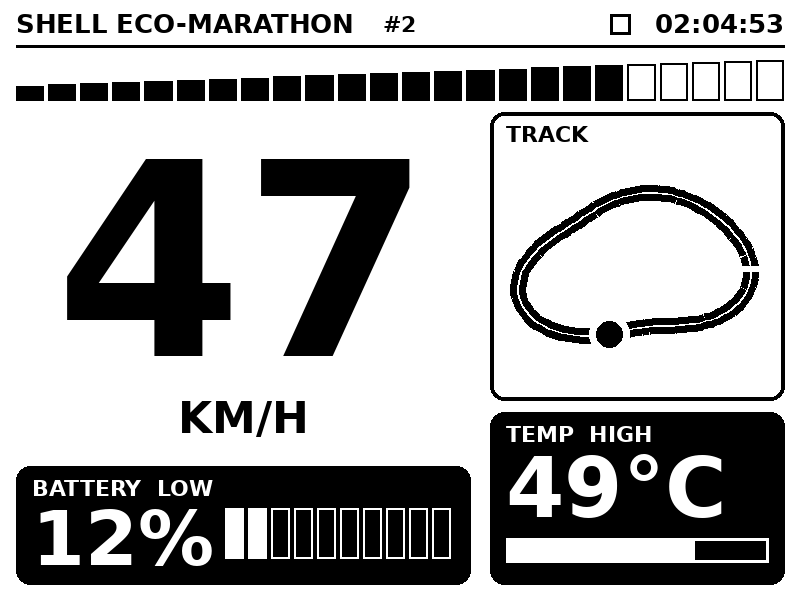
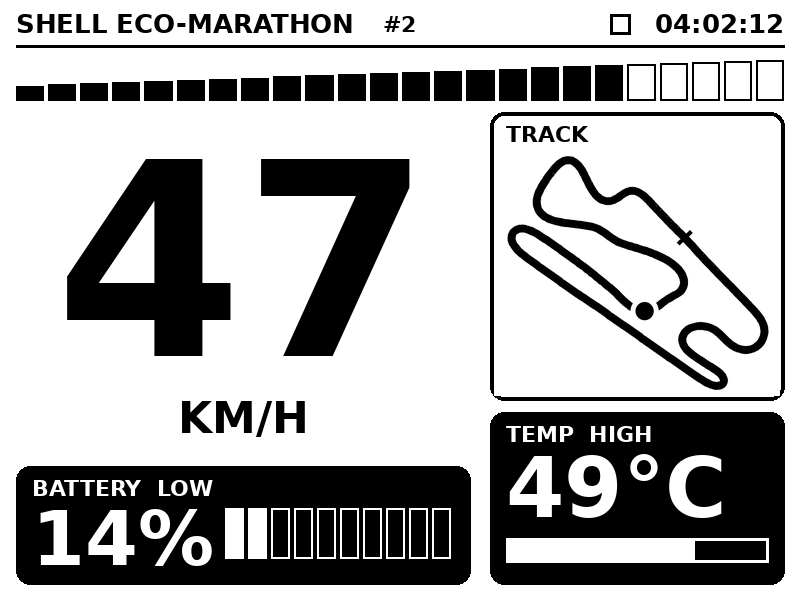
silesia ring track added

diff --git a/server.py b/server.py
@@ -4,8 +4,11 @@ Run:  python server.py
 The Kindle downloads  http://<laptop-ip>:8000/dash.png  (600x800, 8-bit grayscale).
 The design is drawn in landscape (800x600) and rotated for the Kindle's portrait screen.
 """
+import bisect
 import io
+import json
 import math
+import os
 import random
 import time
 from functools import lru_cache
@@ -53,9 +56,67 @@ def card(d, box, inverted=False):
     return 255 if inverted else 0
 
 
-def track_point(u, cx=637, cy=268, rx=100, ry=78):
-    r = 1 + 0.16 * math.cos(2 * u + 0.6) + 0.09 * math.sin(3 * u)
-    return cx + rx * r * math.cos(u), cy + ry * r * math.sin(u)
+MAP_BOX = (510, 160, 766, 386)   # area inside the map card where the track is drawn
+MAP_REGION = (494, 148, 780, 396)   # part of the card redrawn with smoothing (inside the card border)
+SS = 4                              # supersampling: draw 4x bigger, then shrink = smooth edges
+SMOOTH = 3.0                        # smoothing strength in points (0 = off)
+TRACK_FILE = os.path.join(os.path.dirname(os.path.abspath(__file__)), "track.json")
+
+
+def _smooth_closed(pts, sigma):
+    """Gaussian-smooth a closed loop of points (wraps around). Removes tracing jitter."""
+    if sigma <= 0:
+        return pts
+    n, r = len(pts), int(sigma * 3)
+    w = [math.exp(-(i * i) / (2 * sigma * sigma)) for i in range(-r, r + 1)]
+    tot = sum(w)
+    out = []
+    for i in range(n):
+        x = sum(w[j + r] * pts[(i + j) % n][0] for j in range(-r, r + 1)) / tot
+        y = sum(w[j + r] * pts[(i + j) % n][1] for j in range(-r, r + 1)) / tot
+        out.append((x, y))
+    return out
+
+
+def _load_track():
+    """Load track.json, fit it into MAP_BOX, and prepare it for progress lookups."""
+    try:
+        with open(TRACK_FILE) as f:
+            raw = json.load(f)["points"]
+    except (OSError, KeyError, ValueError):
+        return None
+    raw = _smooth_closed([tuple(p) for p in raw], SMOOTH)
+    xs = [p[0] for p in raw]
+    ys = [p[1] for p in raw]
+    x0, x1, y0, y1 = min(xs), max(xs), min(ys), max(ys)
+    bx0, by0, bx1, by1 = MAP_BOX
+    k = min((bx1 - bx0) / (x1 - x0), (by1 - by0) / (y1 - y0))
+    ox = bx0 + ((bx1 - bx0) - k * (x1 - x0)) / 2 - k * x0     # centre in the box
+    oy = by0 + ((by1 - by0) - k * (y1 - y0)) / 2 - k * y0
+    pts = [(ox + k * x, oy + k * y) for x, y in raw]
+    pts.append(pts[0])                                        # close the loop
+    dist = [0.0]
+    for a, b in zip(pts, pts[1:]):
+        dist.append(dist[-1] + math.dist(a, b))
+    return pts, dist
+
+
+TRACK = _load_track()
+
+
+def track_point(u):
+    """Point on the track for progress u (0..1, 0 = start/finish). Uses distance, so speed looks even."""
+    if TRACK is None:                                         # fallback: old placeholder oval
+        a = 2 * math.pi * u
+        r = 1 + 0.16 * math.cos(2 * a + 0.6) + 0.09 * math.sin(3 * a)
+        return 637 + 100 * r * math.cos(a), 268 + 78 * r * math.sin(a)
+    pts, dist = TRACK
+    d = (u % 1.0) * dist[-1]
+    i = min(max(bisect.bisect_right(dist, d) - 1, 0), len(pts) - 2)
+    seg = dist[i + 1] - dist[i]
+    f = (d - dist[i]) / seg if seg else 0.0
+    return (pts[i][0] + f * (pts[i + 1][0] - pts[i][0]),
+            pts[i][1] + f * (pts[i + 1][1] - pts[i][1]))
 
 
 def render(rotate=ROTATE):
@@ -120,14 +181,29 @@ def render(rotate=ROTATE):
     # ---- map card: fake track + moving car -----------------------------
     d.rounded_rectangle((490, 112, 784, 400), radius=14, outline=0, width=4)
     d.text((506, 134), "TRACK", font=font(22), fill=0, anchor="lm")
-    pts = [track_point(2 * math.pi * i / 120) for i in range(121)]
-    d.line(pts, fill=0, width=16, joint="curve")    # road
-    d.line(pts, fill=255, width=2, joint="curve")   # centre line
-    sx, sy = track_point(0)
-    d.line((sx - 14, sy, sx + 14, sy), fill=255, width=6)   # start / finish tick
-    px, py = track_point(2 * math.pi * lap)
-    d.ellipse((px - 20, py - 20, px + 20, py + 20), fill=255)   # halo
-    d.ellipse((px - 13, py - 13, px + 13, py + 13), fill=0)     # car
+    # Track is drawn 4x bigger in its own layer, then shrunk: smooth, anti-aliased lines.
+    rx0, ry0, rx1, ry1 = MAP_REGION
+    layer = Image.new("L", ((rx1 - rx0) * SS, (ry1 - ry0) * SS), 255)
+    ld = ImageDraw.Draw(layer)
+
+    def L(p):
+        return ((p[0] - rx0) * SS, (p[1] - ry0) * SS)
+
+    pts = TRACK[0] if TRACK else [track_point(i / 120) for i in range(121)]
+    lp = [L(p) for p in pts]
+    road = 8 * SS
+    ld.line(lp, fill=0, width=road, joint="curve")
+    for p in (lp[0], lp[-1]):                        # round the ends of the line
+        ld.ellipse((p[0] - road / 2, p[1] - road / 2, p[0] + road / 2, p[1] + road / 2), fill=0)
+    sx, sy = L(track_point(0))
+    sx2, sy2 = L(track_point(0.004))                 # direction of travel at the line
+    n = math.hypot(sx2 - sx, sy2 - sy) or 1.0
+    nx, ny = -(sy2 - sy) / n, (sx2 - sx) / n         # perpendicular
+    ld.line((sx - 9 * SS * nx, sy - 9 * SS * ny, sx + 9 * SS * nx, sy + 9 * SS * ny), fill=0, width=4 * SS)
+    px, py = L(track_point(lap))
+    ld.ellipse((px - 14 * SS, py - 14 * SS, px + 14 * SS, py + 14 * SS), fill=255)   # halo
+    ld.ellipse((px - 9 * SS, py - 9 * SS, px + 9 * SS, py + 9 * SS), fill=0)         # car
+    img.paste(layer.resize((rx1 - rx0, ry1 - ry0), Image.LANCZOS), (rx0, ry0))
 
     out = img.rotate(rotate, expand=True) if rotate else img
     buf = io.BytesIO()

diff --git a/README.md b/README.md
@@ -4,7 +4,7 @@ A car dashboard on an old **Kindle 4 (non-touch)** e-ink screen. A small Python 
 
 Built for a Shell Eco-marathon car: speed, battery, temperature and position on a track map, readable in sunlight, with no extra display hardware.
 
-> **Status: work in progress.** The server currently generates **fake data** and a placeholder track shape so the layout can be tested. Real data and the real track outline will come from ROS 2 (see [Planned](#planned-real-data-from-ros-2)). Refresh rate is being optimised (goal: about 1 update per second).
+> **Status: work in progress.** The server still generates **fake data** for speed, battery, temperature and car position, so the layout can be tested. The **track map now shows the real Silesia Ring outline** from `track.json`. Real data will come from ROS 2 (see [Planned](#planned-real-data-from-ros-2)). Refresh rate is being optimised (goal: about 1 update per second).
 
 ## Preview
 
@@ -15,7 +15,7 @@ Built for a Shell Eco-marathon car: speed, battery, temperature and position on 
 - **Speed**: huge number plus a 24-segment rising bar
 - **Battery**: percentage and 10 cells; the card inverts to white-on-black below 20 %
 - **Temperature**: value and bar; the card inverts above 45 °C
-- **Track map**: outline of the race course with a moving car dot (placeholder shape for now; it will be replaced by the real course outline)
+- **Track map**: smooth outline of the race course (Silesia Ring, loaded from `track.json`), with a start/finish tick and a moving car dot
 - **Top bar**: clock, frame counter and a heartbeat square that flips on every refresh, so you can see the real update rate
 
 Black and white only, with thick strokes and big numbers, because e-ink has no colour and thin lines look bad.
@@ -132,6 +132,10 @@ To keep it running after you close the SSH session, use `nohup sh /mnt/us/fast.s
 | `ROTATE` | `server.py` | `90` or `270`, depending on how the Kindle is mounted |
 | `PORT` | `server.py` | Port of the image server (default `8000`) |
 | `fake_data()` | `server.py` | Source of speed, battery, temperature and track position; replace with real data |
+| `TRACK_FILE` | `server.py` | Track outline file (default: `track.json` next to `server.py`). If it is missing, a placeholder oval is drawn |
+| `MAP_BOX` | `server.py` | Area of the map card where the track is fitted (the track is scaled and centred automatically) |
+| `SMOOTH` | `server.py` | Smoothing of the traced track, in points. `0` = off. Above about 5, tight hairpins start to shrink |
+| `SS` | `server.py` | Track drawing size multiplier for smooth edges (default `4`). Lower it if the CPU is too slow |
 | `SERVER` | `fast.sh` | URL of the image, with the server's IP |
 | `FULL_FLASH_EVERY` | `fast.sh` | Full-flash refresh every N frames (ghosting vs. flicker) |
 
@@ -139,15 +143,20 @@ To keep it running after you close the SSH session, use `nohup sh /mnt/us/fast.s
 
 The dashboard will not use GPS directly. The car's position on the track comes from the ROS 2 code, and the track outline is a fixed drawing of the race course.
 
-**Track outline**: a `track.json` file with a list of points around the loop.
+**Track outline** (done): `track.json` holds a list of points around the loop.
 - The first point is the start/finish line, and the points follow the driving direction.
-- It can be built from the official track map, a recorded lap, or a traced satellite image.
-- It is only a drawing for the screen, so it does not need to be to scale.
+- The file in this repo was traced from the Silesia Ring layout image. The numbers are image pixels (y points down); `server.py` scales and centres them, so no real units are needed.
+- The server smooths the points and draws them at a higher resolution, so the line looks clean even if the tracing is a bit shaky.
+- To use another track, replace `track.json` with the same format:
+
+```json
+{"closed": true, "points": [[x0, y0], [x1, y1], ...]}
+```
 
 **Position topic**: `/track/progress` (`std_msgs/Float32`)
 - Fraction of the lap completed since the start/finish line, from `0.0` to `1.0`, in the driving direction.
 - Wraps from `1.0` back to `0.0` at the line.
-- The server converts it into a point along the outline, so it never needs coordinates.
+- The server converts it into a point along the outline, by distance along the line, so the car moves at an even speed on the map. It never needs coordinates.
 
 **Running on the Pi**: `server.py` will move to the Raspberry Pi, with a background thread (`rclpy`) that subscribes to the topics and keeps the latest values. If no message arrives for a couple of seconds, the dashboard shows dashes instead of stale numbers. Until then, test with a fake publisher:
 
@@ -172,7 +181,8 @@ ros2 topic pub /track/progress std_msgs/Float32 "{data: 0.25}"
 
 - [ ] Faster refresh (about 1 update per second): CPU governor, overlapping download and draw, partial updates with periodic full flash
 - [ ] Real data instead of fake: speed, battery and temperature from the car (ROS 2 topics on a Raspberry Pi)
-- [ ] Track outline matching the race course (`track.json`), with the car position from a ROS 2 topic (`/track/progress`)
+- [x] Track outline matching the race course (`track.json`), smoothed
+- [ ] Car position on the map from a ROS 2 topic (`/track/progress`)
 - [ ] Run the server on the Raspberry Pi in the car, on the car's own Wi-Fi hotspot
 - [ ] Autostart the display loop on boot (kite / KUAL)
 - [ ] Wi-Fi reconnect, low-battery screen and "no data" screen on the Kindle
